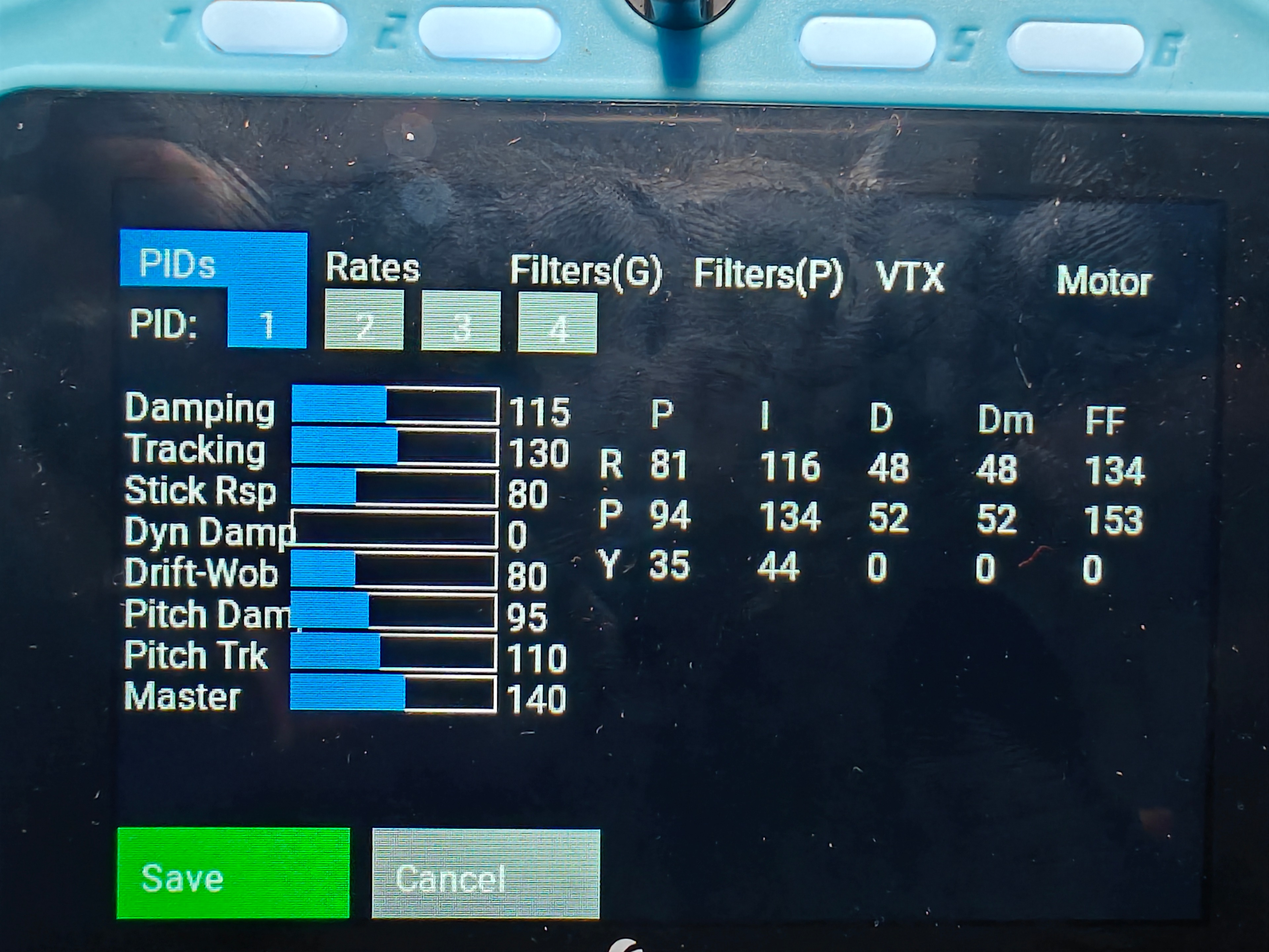
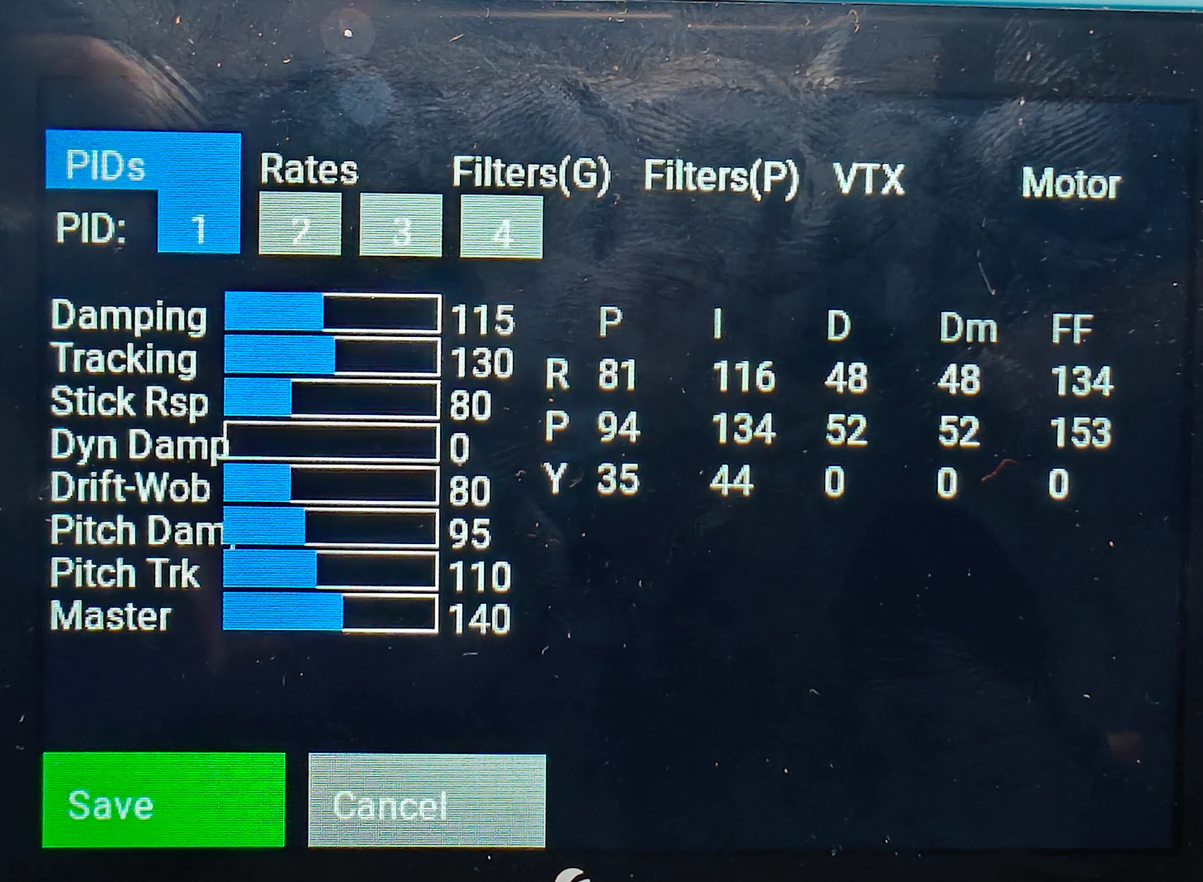
Fix photo crops slicing off setting labels, retune callout boxes
prepare-photos.mjs only rotated+resized source photos, leaving them
landscape (~4:3) so PhotoBeat's cover fit in the 2160x3840 portrait
frame only showed the center ~42% of the width -- chopping left-edge
labels like "Sensitivity" -> "tivity" and "Motor Output Limit" ->
"imit". Add a per-photo extract() crop before the resize, chosen to
keep close to the full available screen height (the real lever for
how much cover has to discard) and trim width to each photo's actual
content. Re-derive every feature scene's focalPoint/calloutRect in
scenes.ts against the new crops, and nudge payoff/cta's focalPoint
(unused motor.jpg background) to match.

diff --git a/video/bfdash-short/src/scenes.ts b/video/bfdash-short/src/scenes.ts
@@ -60,8 +60,8 @@ export const scenes: Scene[] = [
     durationFrames: 75,
     image: "photos/pids.jpg",
     caption: "8 PID tuning sliders — matched to Configurator",
-    focalPoint: { xPct: 30, yPct: 50 },
-    calloutRect: { xPct: 5, yPct: 20, wPct: 45, hPct: 60 },
+    focalPoint: { xPct: 24, yPct: 52 },
+    calloutRect: { xPct: 4, yPct: 32, wPct: 40, hPct: 40 },
   },
   {
     id: "feature-pids-numbers",
@@ -71,7 +71,7 @@ export const scenes: Scene[] = [
     image: "photos/pids.jpg",
     caption: "Live P / I / D / D-Min / FF preview",
     focalPoint: { xPct: 72, yPct: 45 },
-    calloutRect: { xPct: 50, yPct: 15, wPct: 45, hPct: 70 },
+    calloutRect: { xPct: 44, yPct: 35, wPct: 52, hPct: 22 },
   },
   {
     id: "feature-rates-data",
@@ -80,8 +80,8 @@ export const scenes: Scene[] = [
     durationFrames: 75,
     image: "photos/rates.jpg",
     caption: "All 4 rate types, every axis",
-    focalPoint: { xPct: 50, yPct: 65 },
-    calloutRect: { xPct: 15, yPct: 45, wPct: 70, hPct: 45 },
+    focalPoint: { xPct: 44, yPct: 38 },
+    calloutRect: { xPct: 14, yPct: 30, wPct: 58, hPct: 32 },
   },
   {
     id: "feature-filters",
@@ -90,8 +90,8 @@ export const scenes: Scene[] = [
     durationFrames: 75,
     image: "photos/filters-p.jpg",
     caption: "Gyro + D-term filters — global & per-profile",
-    focalPoint: { xPct: 50, yPct: 45 },
-    calloutRect: { xPct: 10, yPct: 15, wPct: 80, hPct: 70 },
+    focalPoint: { xPct: 56, yPct: 46 },
+    calloutRect: { xPct: 15, yPct: 28, wPct: 78, hPct: 36 },
   },
   {
     id: "feature-vtx",
@@ -100,8 +100,8 @@ export const scenes: Scene[] = [
     durationFrames: 75,
     image: "photos/vtx.jpg",
     caption: "Band, channel, power",
-    focalPoint: { xPct: 30, yPct: 40 },
-    calloutRect: { xPct: 8, yPct: 30, wPct: 24, hPct: 24 },
+    focalPoint: { xPct: 43, yPct: 40 },
+    calloutRect: { xPct: 20, yPct: 22, wPct: 45, hPct: 28 },
   },
   {
     id: "feature-motor",
@@ -110,8 +110,8 @@ export const scenes: Scene[] = [
     durationFrames: 75,
     image: "photos/motor.jpg",
     caption: "Throttle boost, idle, sag comp",
-    focalPoint: { xPct: 50, yPct: 45 },
-    calloutRect: { xPct: 10, yPct: 25, wPct: 80, hPct: 55 },
+    focalPoint: { xPct: 49, yPct: 40 },
+    calloutRect: { xPct: 8, yPct: 22, wPct: 82, hPct: 35 },
   },
   {
     id: "payoff",
@@ -120,7 +120,7 @@ export const scenes: Scene[] = [
     durationFrames: 90,
     image: "photos/motor.jpg",
     caption: "Change it in the field.\nNo goggles. No laptop. No USB.",
-    focalPoint: { xPct: 50, yPct: 45 },
+    focalPoint: { xPct: 49, yPct: 40 },
   },
   {
     id: "cta",
@@ -129,7 +129,7 @@ export const scenes: Scene[] = [
     durationFrames: 60,
     image: "photos/motor.jpg",
     caption: "Tested on Jumper T15 & RadioMaster TX15 —\ntry it, tell me what breaks.",
-    focalPoint: { xPct: 50, yPct: 45 },
+    focalPoint: { xPct: 49, yPct: 40 },
   },
   {
     id: "outro",
